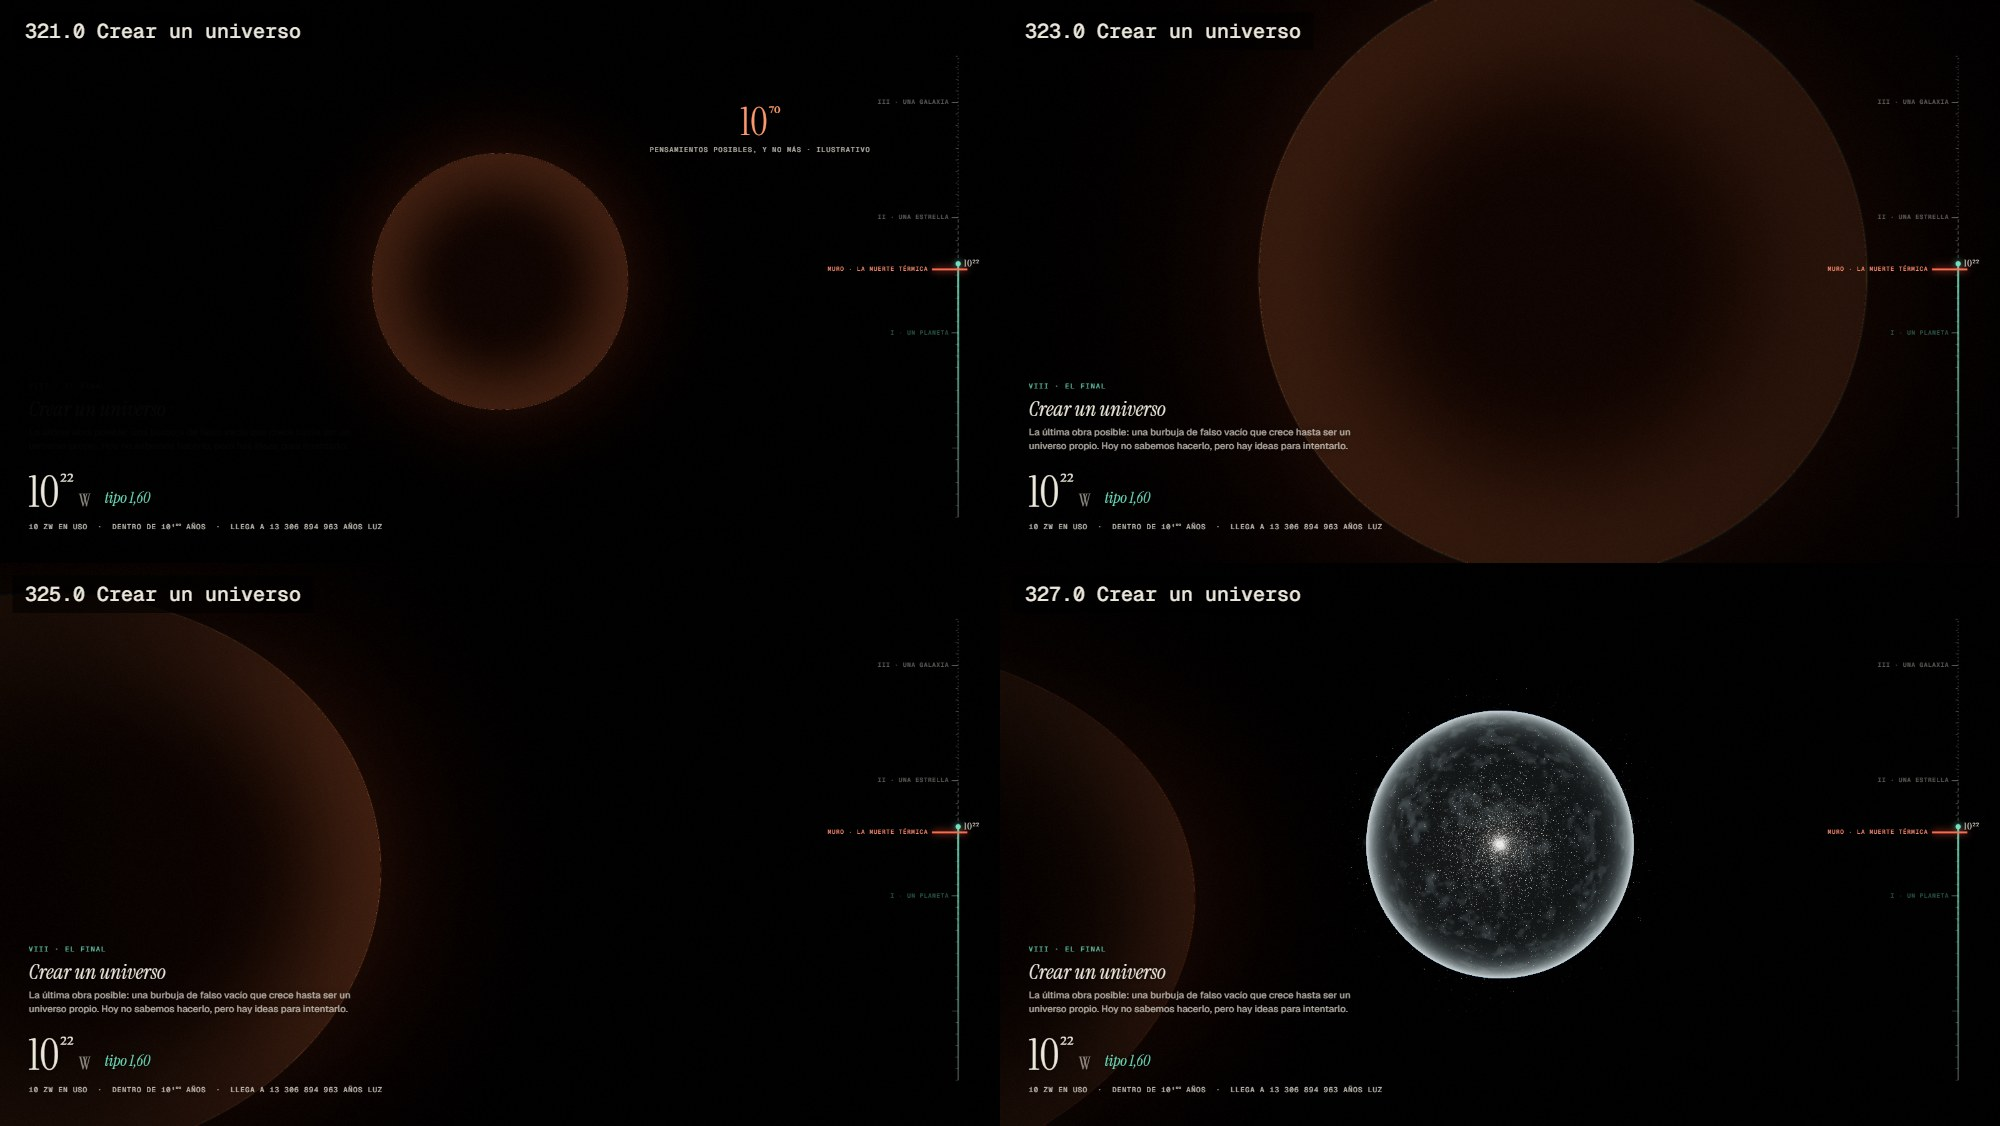
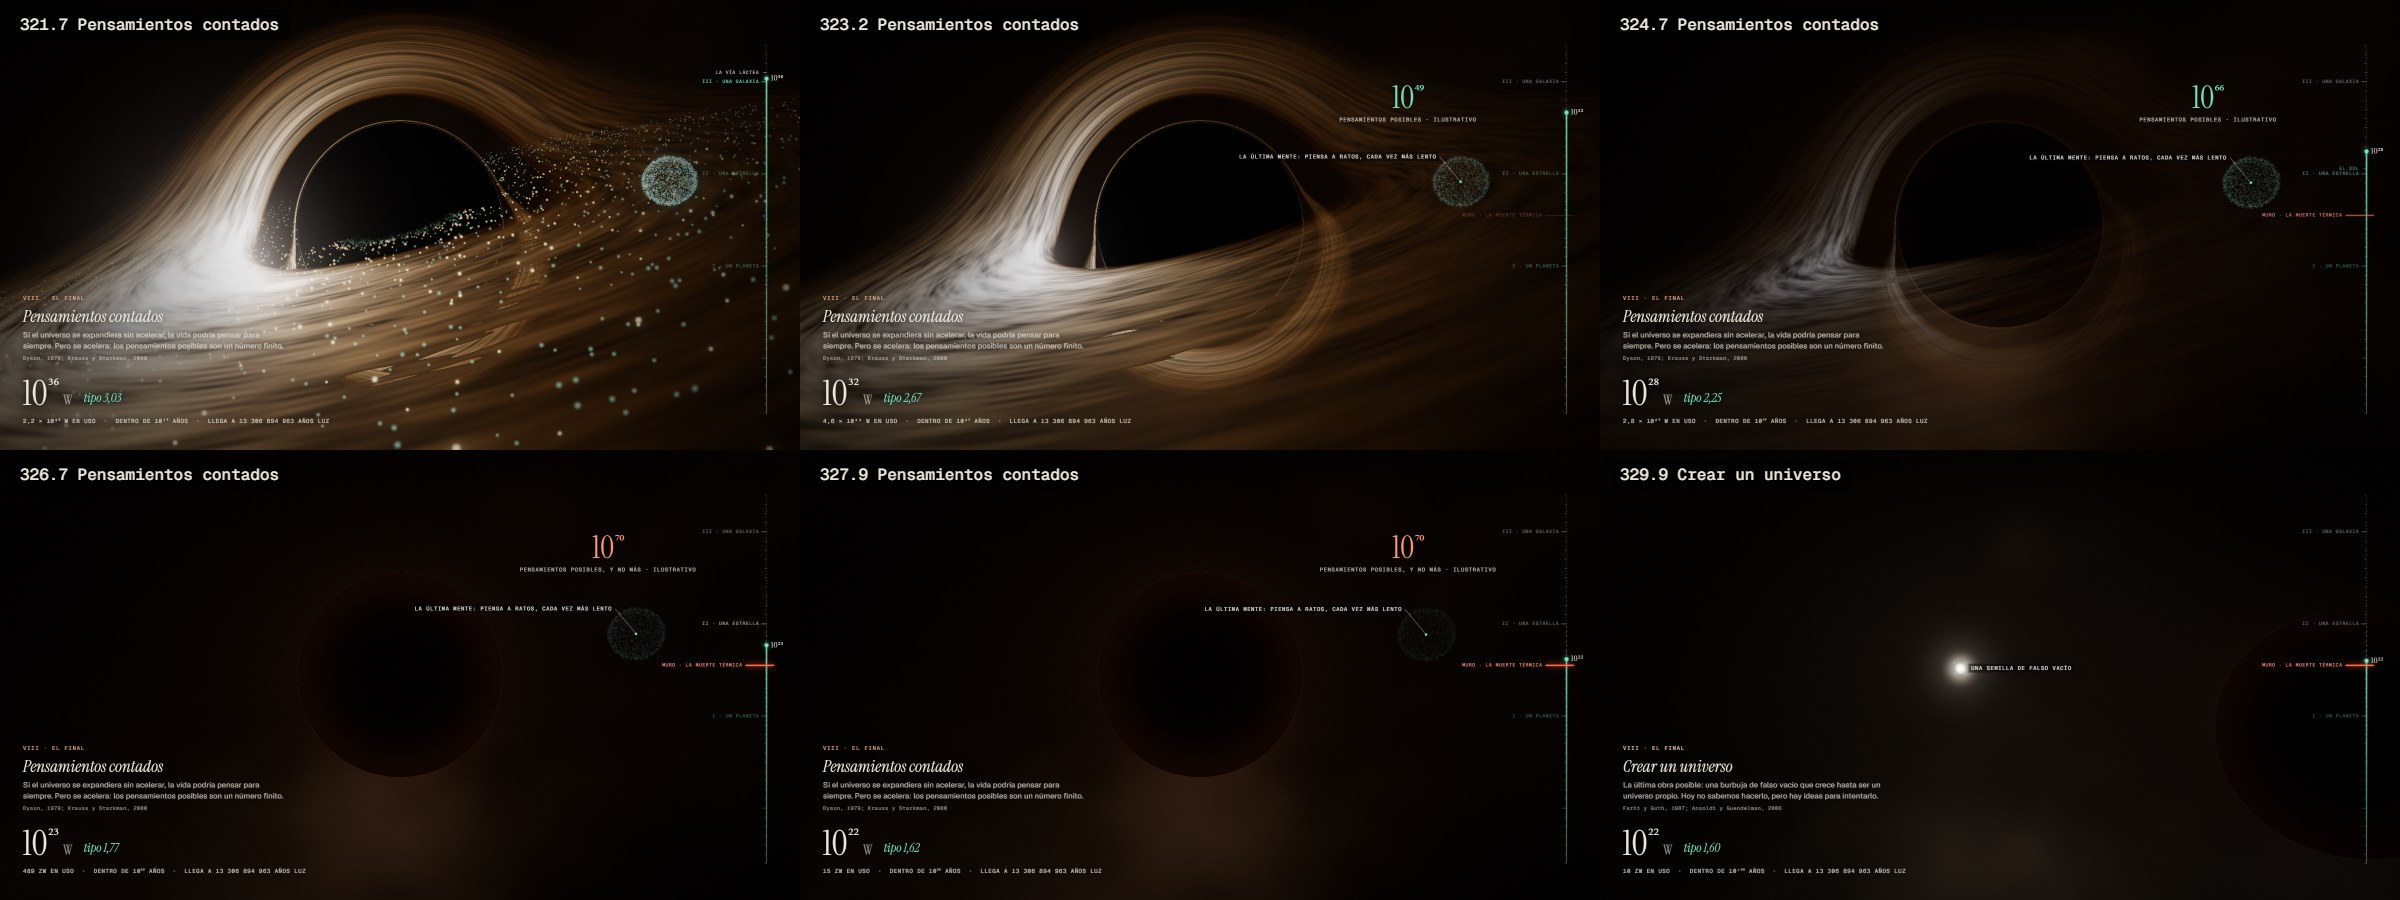
feat: smooth handovers in acts IV, V and VIII
The sail fades in on a powers-of-ten dive; Alpha Centauri A and B are drawn where aberration puts
them (one star each, no gaps); the camera stays on A into the braking; the braking sail fades; the
ship and the ruins shrink to points instead of vanishing; no roll-over leaving the ship. The last
mind sits clear of the disc and is always labelled; the dead hole's glow is faint.

diff --git a/src/actos/estrellas.ts b/src/actos/estrellas.ts
@@ -3,7 +3,7 @@ import type { Timeline } from '../engine/timeline';
 import { clamp, lerp, smoothstep } from '../engine/math';
 import { TEAL, cifra, ink, nota, type Muro } from '../engine/placa';
 import { flecha, panel, texto } from '../engine/lamina';
-import { mezcla, mirar, type Vista } from '../engine/vista';
+import { mezcla, mirar, vuelo as volar, type Vista } from '../engine/vista';
 import { LY_AU, type Mundo } from '../mundo/mundo';
 import { R_SUN, faros } from '../mundo/obras';
 import { VECINAS, dondeVecina, estrella, rutasVecinas, vecinas, vela } from '../mundo/vecinas';
@@ -58,6 +58,24 @@ const RUMBO = FB.clone().sub(L0).normalize();
 const TRAMO = FB.distanceTo(L0);
 const LADO = RUMBO.clone().cross(UP).normalize();
 const ARRIBA = LADO.clone().cross(RUMBO).normalize();
+
+/**
+ * Where a point is seen from `cam` moving at `beta` (c) along `vel`: aberration, the same the sky and
+ * the starfield get (cos θ' = (cos θ + β) / (1 + β cos θ)). The near stars are drawn at their seen
+ * place, or they and their far points were two stars in two places.
+ */
+function aberrar(w: THREE.Vector3, cam: THREE.Vector3, vel: THREE.Vector3, beta: number) {
+  if (beta <= 0) return w.clone();
+  const d = w.clone().sub(cam);
+  const L = d.length();
+  d.divideScalar(L);
+  const c = d.dot(vel);
+  const c2 = (c + beta) / (1 + beta * c);
+  const perp = d.clone().addScaledVector(vel, -c);
+  const pl = perp.length();
+  if (pl < 1e-9) return w.clone();
+  return cam.clone().addScaledVector(vel.clone().multiplyScalar(c2).addScaledVector(perp, Math.sqrt(Math.max(0, 1 - c2 * c2)) / pl), L);
+}
 
 export function estrellas(): Acto {
   let tl: Timeline;
@@ -149,21 +167,15 @@ export function estrellas(): Acto {
   const offW = (o: THREE.Vector3) => LADO.clone().multiplyScalar(o.x).addScaledVector(ARRIBA, o.y).addScaledVector(RUMBO, o.z);
 
   /** The camera's offset from the sail (metres, world axes) and where it looks. */
-  /** Mid-cruise the camera swings round the sail to look back: the Sun, a red star behind. */
-  const vuelta = (p: number) => {
-    const kV = (p - P('a4.viaje')) / (P('a4.frenar') - P('a4.viaje'));
-    return ease(0.27, 0.41, kV) * (1 - ease(0.58, 0.72, kV));
-  };
   function montura(p: number): { off: THREE.Vector3; mira: THREE.Vector3; fov: number } {
     const kL = (p - P('a4')) / (P('a4.viaje') - P('a4'));
     const sw = ease(0.5, 0.85, kL);
-    const th = vuelta(p) * 2.75;
-    const off = offW(LADO_ANTES.clone().lerp(DETRAS, sw)).applyAxisAngle(ARRIBA, th);
+    const off = offW(LADO_ANTES.clone().lerp(DETRAS, sw));
     const { s } = vuelo(p);
     const sail = velaW(s);
     // Before it leaves: looking at the sail (the Sun and its swarm behind it). Then further and
     // further ahead of it, so the sail stays in view while the camera swings behind.
-    const ahead = sail.clone().addScaledVector(RUMBO.clone().applyAxisAngle(ARRIBA, th), 1).addScaledVector(ARRIBA, 0.03);
+    const ahead = sail.clone().addScaledVector(RUMBO, 1).addScaledVector(ARRIBA, 0.03);
     let mira = ahead.clone();
     if (p < P('a4.viaje')) {
       const t = ease(0.5, 0.9, kL);
@@ -173,7 +185,8 @@ export function estrellas(): Acto {
     // Passing α Centauri: the head turns to A as it rushes by.
     const kV = (p - P('a4.viaje')) / (P('a4.frenar') - P('a4.viaje'));
     if (p >= P('a4.viaje')) {
-      const look = ease(0.89, 0.93, kV) * (1 - ease(0.965, 0.995, kV));
+      // (and stays on it: the braking that follows looks at A too; swinging back between read as a jolt)
+      const look = ease(0.89, 0.93, kV);
       if (look > 0) mira = ahead.lerp(A, look);
     }
     return { off, mira, fov: p < P('a4.viaje') ? lerp(52, 60, sw) : 60 };
@@ -219,8 +232,10 @@ export function estrellas(): Acto {
     // From the Solar System seen whole (where act III leaves us), a dive to the sail by the Sun.
     const top = V(Math.cos(1.25 - 0.6), 0.85, Math.sin(1.25 - 0.6)).normalize().multiplyScalar(6.2);
     const far: Vista = { pos: top, target: L0.clone().multiplyScalar(0.5), up: UP.clone(), fov: 50 };
-    // Falling towards the sail with the Sun (where it is) ahead, then turning to the sail itself.
-    const v = mezcla(far, near, ease(0.04, 0.28, kL));
+    // Falling towards the sail with the Sun (where it is) ahead, then turning to the sail itself; in
+    // powers of ten, so it grows from its light to the sail without a jump.
+    const t = ease(0.04, 0.3, kL);
+    const v: Vista = { pos: volar(far.pos, near.pos, t, 1, near.pos.distanceTo(sail)), target: near.target, up: UP.clone(), fov: lerp(far.fov, near.fov, t) };
     const haciaSol = mirar(v.pos, far.target, sail, ease(0.02, 0.12, kL));
     return { ...v, target: mirar(v.pos, haciaSol, near.target, ease(0.2, 0.3, kL)) };
   }
@@ -242,16 +257,32 @@ export function estrellas(): Acto {
   }
   function camNave(p: number): Vista {
     const k = (p - P('a4.nave')) / (P('a4.muro') - P('a4.nave'));
-    return k < 0.14 ? mezcla(camFreno(P('a4.nave')), vNave(p), ease(0, 0.14, k)) : vNave(p);
+    if (k >= 0.14) return vNave(p);
+    // From the braking sail to the ship, in powers of ten: the sail shrinks behind, the ship grows
+    // from a point ahead (a straight mix crossed 0.05 light years in a frame: both just popped).
+    const a = camFreno(P('a4.nave'));
+    const b = vNave(p);
+    const t = ease(0, 0.14, k);
+    const pos = volar(a.pos, b.pos, t, 800 * M, 70e3 * M);
+    return { pos, target: mirar(pos, a.target, b.target, ease(0, 0.45, t)), up: a.up.clone().lerp(b.up, ease(0.3, 1, t)).normalize(), fov: lerp(a.fov, b.fov, t) };
   }
   /** Pulling back: the neighbourhood, then the whole galaxy, where our bubble is a point. */
   const GAL = V(0, 0, -26000).multiplyScalar(LY_AU);
   function camMuro(p: number): Vista {
     const k = (p - P('a4.muro')) / (P('a4.fin') - P('a4.muro'));
     const from = vNave(P('a4.muro'));
-    const barrio: Vista = { pos: DIR.clone().multiplyScalar(-30 * LY_AU).addScaledVector(UP, 26 * LY_AU), target: DIR.clone().multiplyScalar(4 * LY_AU), up: UP.clone(), fov: 50 };
+    // (its up is square to the way to Alpha Centauri, not the world's: the gaze down at the
+    // neighbourhood is nearly vertical, and the world's up there rolled the picture over)
+    const barrio: Vista = { pos: DIR.clone().multiplyScalar(-30 * LY_AU).addScaledVector(UP, 26 * LY_AU), target: DIR.clone().multiplyScalar(4 * LY_AU), up: naveArriba.clone().normalize(), fov: 50 };
     const galaxia: Vista = { pos: GAL.clone().add(V(30000, 62000, 60000).multiplyScalar(LY_AU)), target: GAL.clone().multiplyScalar(0.55), up: UP.clone(), fov: 46 };
-    if (k < 0.45) return mezcla(from, barrio, ease(0.0, 0.4, k));
+    if (k < 0.45) {
+      // Away from the ship in powers of ten, so it shrinks to a point instead of vanishing.
+      const t = ease(0.0, 0.4, k);
+      const pos = volar(from.pos, barrio.pos, t, 70e3 * M, 30 * LY_AU);
+      // Looking back at the ship all the way out (the neighbourhood's centre lies between the ship and
+      // where we go: turning to it early swung the gaze under us and flipped it as we passed it).
+      return { pos, target: mirar(pos, from.target, barrio.target, ease(0.75, 1, t)), up: from.up.clone().lerp(barrio.up, ease(0, 0.6, t)).normalize(), fov: lerp(from.fov, barrio.fov, t) };
+    }
     return mezcla(barrio, galaxia, ease(0.5, 0.95, k));
   }
   function vista(p: number): Vista {
@@ -309,8 +340,6 @@ export function estrellas(): Acto {
       // Light years away the Sun is one star among many: its beacon fades.
       const lejos = vista(p).pos.length() / LY_AU;
       e.faros = 1 - smoothstep(0.5, 6, lejos);
-      // Looking back mid-cruise: the Sun, the brightest star behind, reddened.
-      e.faroSol = 1 + 2.5 * vuelta(p);
       e.solDim = 0.9;
       e.cercanias = 0;
       e.luna = 0;
@@ -341,6 +370,9 @@ export function estrellas(): Acto {
       }
       // α Centauri up close.
       const nearAC = v.pos.distanceTo(AC) < 0.05 * LY_AU && here;
+      const vel = m.estado.vel.clone().normalize();
+      starA.group.position.copy(aberrar(A, v.pos, vel, m.estado.beta));
+      starB.group.position.copy(aberrar(B, v.pos, vel, m.estado.beta));
       starA.update(camera, time, nearAC ? 1 : 0, v.pos.distanceTo(A) / R_A);
       starB.update(camera, time, nearAC ? 1 : 0, v.pos.distanceTo(B) / R_B);
       starP.update(camera, time, v.pos.distanceTo(PROX) < 0.02 * LY_AU && here ? 1 : 0);
@@ -357,7 +389,7 @@ export function estrellas(): Acto {
       // The ship that is a world, while we ride beside it.
       if (p > P('a4.nave', -0.3) && p < P('a4.muro', 1.2)) {
         const rel = NAVE.clone().sub(v.pos).divideScalar(M);
-        if (rel.length() < 4e7) {
+        if (rel.length() < 3e9) {
           cabina.visible = true;
           nave.visible = true;
           chorro.points.visible = true;
@@ -382,17 +414,19 @@ export function estrellas(): Acto {
         if (near) rel = mt.off.clone().negate();
         else rel = velaW(vuelo(p).s).sub(v.pos).divideScalar(M);
         const lejos = rel.length();
-        if (lejos > 1500 && p < P('a4.viaje')) {
+        if (lejos > 600 && p < P('a4.viaje')) {
           // Its light, in its direction (the cabin keeps it near; only the direction matters).
           cabina.visible = true;
           faro.points.visible = true;
-          faro.set(0, rel.clone().normalize().multiplyScalar(1000 * SIGMA), smoothstep(1500, 4000, lejos) * smoothstep(3e12, 3e11, lejos));
+          faro.set(0, rel.clone().normalize().multiplyScalar(1000 * SIGMA), smoothstep(600, 2600, lejos) * smoothstep(3e12, 3e11, lejos));
           faro.commit();
           faro.mat.uniforms.uDpr.value = f.dpr;
         }
         if (lejos < 3000) {
           cabina.visible = true;
           velaS.group.visible = true;
+          // (it fades in as its light fades out)
+          velaS.uni.uOn.value = smoothstep(3000, 900, lejos);
           velaS.group.position.copy(rel).multiplyScalar(SIGMA);
           velaS.group.scale.setScalar(2 * SIGMA);
           velaS.group.quaternion.setFromUnitVectors(V(0, 0, 1), RUMBO);
@@ -418,6 +452,7 @@ export function estrellas(): Acto {
         if (relCam.length() < 2e5) {
           cabina.visible = true;
           velaG.group.visible = true;
+          velaG.uni.uOn.value = ease(P('a4.frenar', -0.3), P('a4.frenar', 0.5), p) * (1 - ease(P('a4.nave', -0.7), P('a4.nave', -0.05), p));
           velaG.group.position.copy(relCam).multiplyScalar(SIGMA);
           velaG.group.scale.setScalar(160 * SIGMA);
           const toA = rel.clone().negate().normalize();
@@ -463,10 +498,8 @@ export function estrellas(): Acto {
         const anos = Math.max(0, Math.min(21.8, (s / TRAMO) * 21.8));
         cifra(g, u, W * 0.76, H * 0.24, String(Math.round(anos)), '', 58, vy, TEAL, 'años de viaje');
         if (f.lamina) {
-          const at = vuelta(p);
-          texto(g, u, W / 2, H * 0.12, 'adelante: las estrellas se juntan y se ven más azules', '#9fc4ff', vy * (1 - 0.6 * at), 10.5, 'center');
-          texto(g, u, W / 2, H * 0.12 + 18 * u, 'atrás: más rojas y débiles', '#ffab8a', vy * (0.4 + 0.6 * at), 10.5, 'center');
-          add(V(), 'el Sol', 30, -30, vy * ease(0.7, 0.95, at));
+          texto(g, u, W / 2, H * 0.12, 'adelante: las estrellas se juntan y se ven más azules', '#9fc4ff', vy, 10.5, 'center');
+          texto(g, u, W / 2, H * 0.12 + 18 * u, 'atrás: más rojas y débiles', '#ffab8a', vy * 0.7, 10.5, 'center');
         }
       }
       // The aberration cone: what would be 12° from ahead is seen at 10° (cos θ' = (cos θ + β) / (1 + β cos θ)).
@@ -507,8 +540,9 @@ export function estrellas(): Acto {
       // Faster ways that stay on paper: what physics does not allow (or nobody knows how to do).
       const nf = ease(0.4, 0.48, kV) * (1 - ease(0.86, 0.93, kV));
       if (f.lamina) panel(g, u, W, H, 0.73, 0.37, 'más rápido, solo en papel', ['Bussard: el gas que recoge frena más de lo que empuja', 'Alcubierre: pide energía negativa', 'agujeros de gusano: no se conoce ninguno'], nf);
-      add(A, 'Alfa Centauri A', 34, -30, ease(0.8, 0.84, kV) * (1 - ease(0.97, 1.0, kV)));
-      add(B, 'Alfa Centauri B', 34, -30, ease(0.8, 0.84, kV) * (1 - ease(0.97, 1.0, kV)));
+      const visto = (w: THREE.Vector3) => aberrar(w, f.vista.pos, m.estado.vel.clone().normalize(), m.estado.beta);
+      add(visto(A), 'Alfa Centauri A', 34, -30, ease(0.8, 0.84, kV) * (1 - ease(0.97, 1.0, kV)));
+      add(visto(B), 'Alfa Centauri B', 34, -30, ease(0.8, 0.84, kV) * (1 - ease(0.97, 1.0, kV)));
       // Braking.
       const fr = ease(0.12, 0.2, kF) * (1 - ease(0.9, 0.98, kF));
       if (fr > 0.01) {

diff --git a/src/mundo/vecinas.ts b/src/mundo/vecinas.ts
@@ -186,9 +186,10 @@ export function estrella(color: THREE.Color, brillo = 18) {
           #include <logdepthbuf_fragment>
           float r = length(vUv) * 40.0;
           if (r < 1.0) discard;
-          float a = 0.9 / (r * r) + 0.06 * exp(-r * 0.12);
-          a *= 1.0 - smoothstep(30.0, 40.0, r);
-          gl_FragColor = vec4(uColor * a * 6.0 * uOn * uGlow, 1.0);
+          // A tight glow and only a faint wide one (wider, it fogged half the frame).
+          float a = 0.9 / (r * r) + 0.022 * exp(-r * 0.2);
+          a *= 1.0 - smoothstep(24.0, 40.0, r);
+          gl_FragColor = vec4(uColor * a * 4.5 * uOn * uGlow, 1.0);
         }`,
       transparent: true,
       depthWrite: false,
@@ -205,7 +206,10 @@ export function estrella(color: THREE.Color, brillo = 18) {
       uni.uTime.value = time;
       uni.uOn.value = on;
       const lejos = Math.min(1, Math.max(0, (cerca - 8) / 90));
-      uni.uGlow.value = 0.12 + 0.88 * lejos;
+      // From afar its glow keeps a few pixels' size and a star's brightness (it takes over from the
+      // starfield's point, which gives way at a few hundred AU; dimmer, it left a gap with no star).
+      uni.uGlow.value = (0.12 + 0.88 * lejos) * (1 + Math.min(cerca / 1500, 30));
+      glow.scale.setScalar(Math.max(40, cerca * 0.012));
       // Up close, a golden disc you can look at (its grain and its darker rim), not a white blur.
       uni.uBrillo.value = lerp(0.75, brillo, lejos * lejos);
       group.visible = on > 0.001;
@@ -221,7 +225,7 @@ export function estrella(color: THREE.Color, brillo = 18) {
  */
 export function vela(rejilla = 10) {
   const group = new THREE.Group();
-  const uni = { uCalor: { value: 0 }, uLuz: { value: 0 }, uLuzDir: { value: V(0, 0, 1) }, uLuzCol: { value: new THREE.Color(1, 0.9, 0.7) } };
+  const uni = { uCalor: { value: 0 }, uLuz: { value: 0 }, uLuzDir: { value: V(0, 0, 1) }, uLuzCol: { value: new THREE.Color(1, 0.9, 0.7) }, uOn: { value: 1 } };
   const geo = new THREE.CircleGeometry(1, 96, 0, Math.PI * 2);
   // The billow: the edge lies a little behind the centre.
   const pos = geo.attributes.position as THREE.BufferAttribute;
@@ -235,6 +239,7 @@ export function vela(rejilla = 10) {
     new THREE.ShaderMaterial({
       uniforms: uni,
       side: THREE.DoubleSide,
+      transparent: true,
       vertexShader: /* glsl */ `${LOG_V}
         varying vec3 vP; varying vec3 vN; varying vec3 vV;
         void main() { vP = position; vN = normalMatrix * normal;
@@ -244,7 +249,7 @@ export function vela(rejilla = 10) {
           #include <logdepthbuf_vertex>
         }`,
       fragmentShader: /* glsl */ `${LOG_F}
-        uniform float uCalor, uLuz; uniform vec3 uLuzDir, uLuzCol;
+        uniform float uCalor, uLuz, uOn; uniform vec3 uLuzDir, uLuzCol;
         varying vec3 vP; varying vec3 vN; varying vec3 vV;
         void main() {
           #include <logdepthbuf_fragment>
@@ -269,7 +274,7 @@ export function vela(rejilla = 10) {
           col += uLuzCol * uLuz * back * 0.28 * (0.55 + 0.45 * (1.0 - r * r)) * (1.0 - 0.6 * max(rib, ring));
           // The beam's heat: a dull red glow, hottest at the middle.
           col += vec3(1.0, 0.28, 0.08) * uCalor * (0.35 + 0.65 * (1.0 - r * r));
-          gl_FragColor = vec4(col, 1.0);
+          gl_FragColor = vec4(col, uOn);
         }`,
     }),
   );

diff --git a/src/actos/final.ts b/src/actos/final.ts
@@ -156,7 +156,8 @@ export function final(): Acto {
   const nuevoG = new THREE.Group();
   // Dyson's last mind: a shell of computers beside the hole, thinking in ever rarer bursts (each sleep
   // longer than the last, each waking dimmer), until the counter stops.
-  const MENTE = V(0.9, 0.16, 0.42).normalize().cross(UP).normalize().multiplyScalar(-92).add(V(0, 16, 0));
+  // (off the disc, above its plane to the right of the hole: on its edge it read as a lump on the disc)
+  const MENTE = V(0.9, 0.16, 0.42).normalize().cross(UP).normalize().multiplyScalar(-130).add(V(0, 30, 0));
   const uPulso = { value: 0 };
   const mente = (() => {
     const b = materiaBuilder(808);
@@ -281,7 +282,7 @@ export function final(): Acto {
       // The hole: its disk while there is matter; its Hawking glow at the end.
       const disco = ease(P('a8', 0.7), P('a8', 2.2), p) * (1 - ease(P('a8.contados', 0.6), P('a8.contados', 3.4), p));
       bh.u.uDiskL.value = disco;
-      bh.u.uHawk.value = 0.07 * ease(P('a8.contados', 2.0), P('a8.contados', 4.4), p) * (1 - ease(P('a8.relevo'), P('a8.relevo', 1), p));
+      bh.u.uHawk.value = 0.02 * ease(P('a8.contados', 2.0), P('a8.contados', 4.4), p) * (1 - ease(P('a8.relevo'), P('a8.relevo', 1), p));
       const center = V().sub(v.pos).multiplyScalar(k);
       bh.update({ camera, center, normal: NORMAL, rs: RS * k, sky: new THREE.Matrix3(), time, alpha: 1 - ease(P('a8.relevo', 0.6), P('a8.relevo', 1.6), p) });
       // Penrose: the civilization's matter, in and out.
@@ -334,7 +335,8 @@ export function final(): Acto {
         if (q && q.x > 0 && q.x < W && q.y > 0 && q.y < H) rumbo(g, u, q.x, q.y, 'una semilla de falso vacío', rs);
       }
       // The last mind.
-      if (f.lamina && co > 0.01) {
+      // (always, with or without the plate: without its words it was a mystery)
+      if (co > 0.01) {
         const q = f.proj(MENTE);
         if (q) nota(g, u, q.x, q.y, 'la última mente: piensa a ratos, cada vez más lento', -40, -48, co);
       }

diff --git a/src/actos/galactica.ts b/src/actos/galactica.ts
@@ -126,7 +126,11 @@ export function galactica(): Acto {
     // (and round the galaxy while the question comes back)
     const c = ly(CENTRO.clone());
     const borde = { ...BORDE, pos: c.clone().add(BORDE.pos.clone().sub(c).applyAxisAngle(UP, -0.35 * ease(0.2, 1.4, k))) };
-    return mezcla(vRuinas(P('a5.muro')), borde, ease(0.0, 0.6, k));
+    // Away from the ruins in powers of ten, so they shrink to a point instead of vanishing.
+    const a = vRuinas(P('a5.muro'));
+    const t = ease(0.0, 0.6, k);
+    const pos = vuelo(a.pos, borde.pos, t, 2, borde.pos.distanceTo(borde.target));
+    return { pos, target: mirar(pos, a.target, borde.target, ease(0.05, 0.5, t)), up: UP.clone(), fov: lerp(a.fov, borde.fov, t) };
   }
   const SEGS: [string, (p: number) => Vista][] = [
     ['a5', camBurbuja],
@@ -245,8 +249,9 @@ export function galactica(): Acto {
         c.group.visible = callOn > 0.001;
         c.nube.u.uGain.value = callOn * 0.9;
       }
-      const atRuins = v.pos.distanceTo(ly(RUINAS)) < 2000;
-      ru.nube.u.uOn.value = atRuins ? 1 : 0;
+      const dRu = v.pos.distanceTo(ly(RUINAS));
+      const atRuins = dRu < 4000;
+      ru.nube.u.uOn.value = 1 - smoothstep(600, 4000, dRu);
       enana.update(camera, time, atRuins ? 1 : 0, v.pos.distanceTo(ly(RUINAS)) / (0.0125 * R_SUN));
     },
     placa(g, f: Cuadro) {
